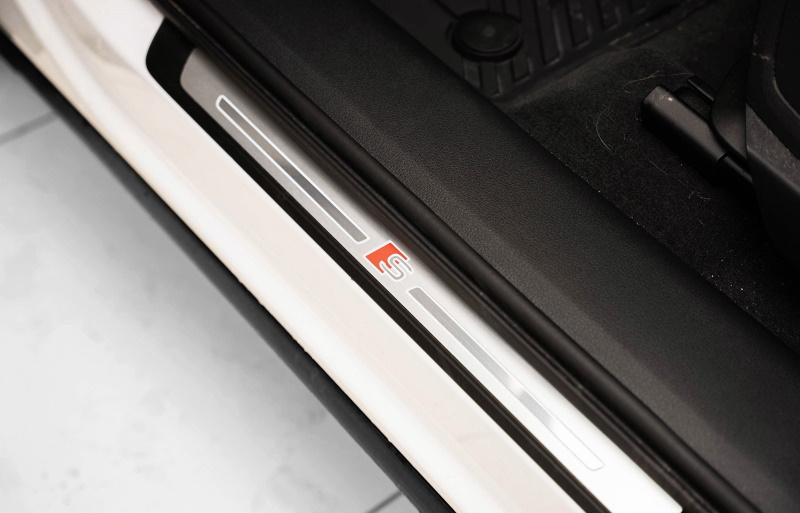
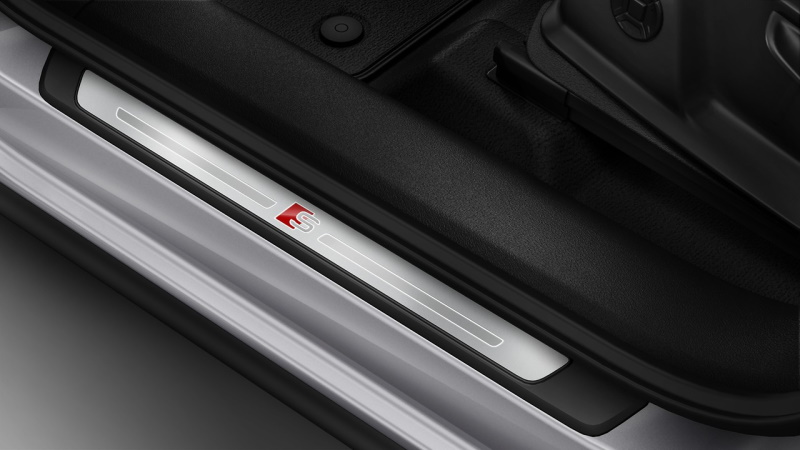
updates

diff --git a/content/models/e-tron/optionguide/list/_index.md b/content/models/e-tron/optionguide/list/_index.md
@@ -239,7 +239,7 @@ You can choose between serveral seat types and seat materials. Click links below
 | [Illuminated entry strips front / rear with aluminum field, without logo](../../exterior/doors/#door-inlays) |  | VT3 |
 | [Illuminated entry moldings with aluminum panels at the front and back, S-logo on the list in front](../../exterior/doors/#door-inlays)  | S-line/S-line interior | VT5 |
 | [12-volt outlet](../../technology/connections/#12volt) | Front, rear and luggage compartment | Standard | |
-| Storage and luggage compartment package | - Two cup holders in the rear center console <br> - Cladding in the storage compartment in the spare wheel well <br> - [Net in the side of the luggage compartment](../../transportation/#storage-and-luggage-compartment-package) <br /> - Luggage net for transporting objects (luggage straps)  | QE1 | 
+| Storage and luggage compartment package | - Two cup holders in the rear center console <br> - [Cladding in the storage compartment in the spare wheel well](../../transportation/#storage-and-luggage-compartment-package) <br> - [Net in the side of the luggage compartment](../../transportation/#storage-and-luggage-compartment-package) <br /> - [Luggage net for transporting objects (luggage straps)](../../transportation/#storage-and-luggage-compartment-package)  | QE1 | 
 | [Separation net for luggage compartment](../../transportation/#luggage-compartment-seperation-net)  |  | 3CX |
 | Flexible folding luggage compartment mat  |  | 6SJ |
 
@@ -265,7 +265,7 @@ You can choose between serveral seat types and seat materials. Click links below
 | Bluetooth interface | Standard |  |
 | Audi connect emergency call |   |  |
 
-## Driver asssist systems
+## Driver assist systems
 
 | Title | Description | ID |
 |-----|------|------|
@@ -275,7 +275,7 @@ You can choose between serveral seat types and seat materials. Click links below
 | [Audi pre sense front](/models/e-tron/technology/drivingassistance/presensefront/) | standard |  |
 | [Cruise control with speed limiter](/models/e-tron/technology/drivingassistance/cruisecontrol/) | standard |  |
 | [Parking system plus](/models/e-tron/technology/drivingassistance/parkingsystemplus/)  |  standard |   |
-| [Park assist](/models/e-tron/technology/drivingassistance/parkingsystemplus/) | | 7X5 |
+| [Park assist](/models/e-tron/technology/drivingassistance/parkassist/) | | 7X5 |
 | [360 camera](/models/e-tron/technology/drivingassistance/360camera/) |  |  PCZ |
 | [Traffic sign recognition](/models/e-tron/technology/drivingassistance/trafficsignrecognition/) |  |  |
 | Lane assist package |  Includes [side assist](/models/e-tron/technology/drivingassistance/sideassist/), [Exit warning](/models/e-tron/technology/drivingassistance/exitwarning/), [cross traffic rear](/models/e-tron/technology/drivingassistance/crosstrafficassistrear/),  [pre sense rear](/models/e-tron/technology/drivingassistance/presenserear/) | PCH |

diff --git a/content/models/e-tron/technology/connections/_index.nb.md b/content/models/e-tron/technology/connections/_index.nb.md
@@ -5,7 +5,6 @@ description: Audi e-tron har tilkoblingsmuligheter for USB-C og 12 Volt
 weight: 9
 ---
 
-
 ## 12 Volt
 
 Audi e-tron kommer med 3 stk 12-volts uttak som standard. I forseter, i bakseter og i bagasjerom.
@@ -15,6 +14,8 @@ De er bare aktive når tenningen er på.
 ![12 volt i front](12voltfront.jpg "12-volts uttak foran")
 
 ![12 volt i front](12voltrear.jpg "12-volts uttak bak")
+
+![12 volt in fron](12voltluggage.jpg "12-volts uttak bagasjerom")
 
 ## Audi Music-interface foran
 

diff --git a/content/models/e-tron/transportation/_index.md b/content/models/e-tron/transportation/_index.md
@@ -36,6 +36,8 @@ This contains the following.
 
 ![Storage and luggage compartment package](qe1_1s.jpg "Net in the side of the luggage compartment and luggage net for transporting objects")
 
+![Storage and luggage compartment package](clathers.jpg "Cloth in storage room for spare wheel")
+
 ## Frunk
 
 ![Trunk](frunk_1.jpg "Trunk Audi e-tron")

diff --git a/content/models/e-tron/exterior/doors/_index.md b/content/models/e-tron/exterior/doors/_index.md
@@ -57,7 +57,11 @@ so you can lock the car.
 
 You can get e-tron with different inlays in the door sills
 
+![Inlay](inlaydoors.jpg "Standard auluminium inlays")
 
+![Inlay](inlaydoors.jpg "Illumiated auluminium inlays - option VT3")
+
+![Inlay](vt5_1s.jpg "S-line inlays - option VT5")
 
 
 {{% children description="true" depth="1" %}}
